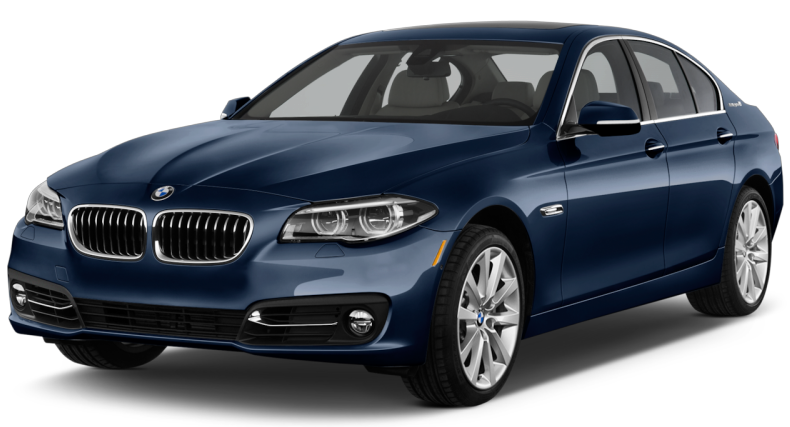
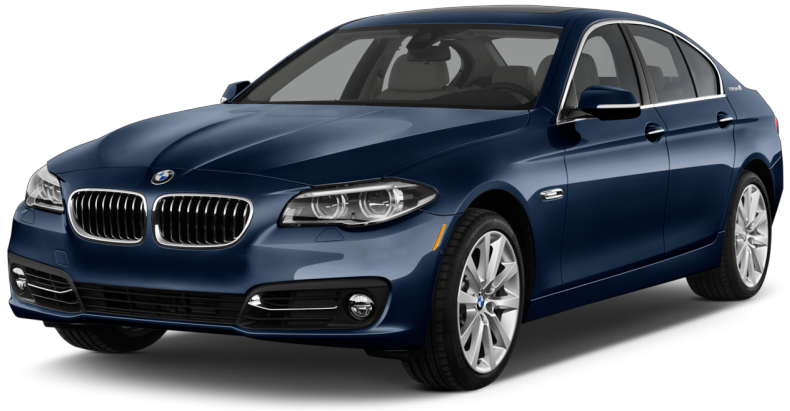
Home Page Height Fix

Changed region(s): [[0.0, 0.0, 1.0, 0.9635], [0.6684, 0.8175, 0.8203, 0.9051], [0.0911, 0.8467, 0.1823, 0.8759]]

diff --git a/src/app/home/home.page.html b/src/app/home/home.page.html
@@ -27,7 +27,7 @@
           </ion-button>
         </ion-text>
       </ion-col>
-      <ion-col class="ion-align-self-end" style="padding-bottom: 5rem;">
+      <ion-col class="ion-align-self-end">
           <ion-img src="assets/images/homepage-bmw.png" style="width: 55vw;"></ion-img>
       </ion-col>
     </ion-row>
